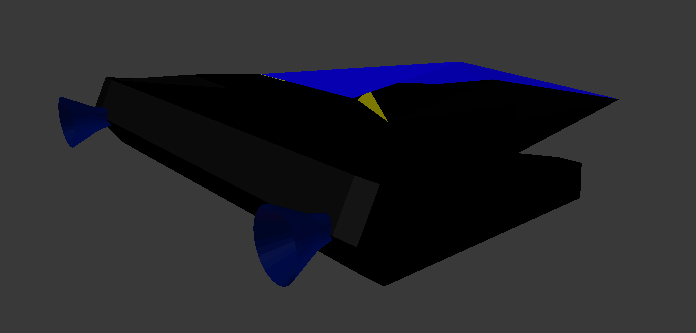
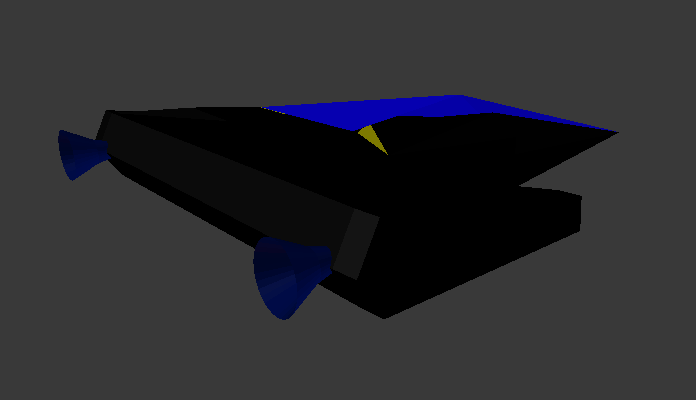
aspect ratio parameter

diff --git a/src/components/Carousel.js b/src/components/Carousel.js
@@ -14,15 +14,23 @@ export default class Carousel extends Component {
   static propTypes = {
     folder: PropTypes.string.isRequired,
     captions: PropTypes.arrayOf(PropTypes.string).isRequired,
+    aspectRatio: PropTypes.arrayOf(PropTypes.number),
+  };
+
+  static defaultProps = {
+    aspectRatio: [16, 9],
   };
 
   render() {
     return (
       <CarouselProvider
-        naturalSlideWidth={100}
-        naturalSlideHeight={60} //TODO: adaptive aspect ratio
+        naturalSlideWidth={this.props.aspectRatio[0]}
+        naturalSlideHeight={this.props.aspectRatio[1]} //TODO: adaptive aspect ratio
         totalSlides={this.props.captions.length}
-        infinite
+        infinite={this.props.captions.length > 1}
+        // isIntrinsicHeight
+        touchEnabled={this.props.captions.length > 1}
+        dragEnabled={this.props.captions.length > 1}
       >
         <div style={{ position: "relative" }}>
           <Slider style={{ borderRadius: "3vmin" }}>

diff --git a/src/components/blender/RPC.js b/src/components/blender/RPC.js
@@ -41,7 +41,13 @@ export default function RPC() {
                 Then I modified it slightly and played with the font and added a
                 more dramatic camera angle to make this icon:
               </p>
-              <Carousel folder="../../assets/5-rpc/icon" captions={[""]} />
+              <div style={{ width: "50%", margin: "0 auto" }}>
+                <Carousel
+                  folder="../../assets/5-rpc/icon"
+                  captions={[""]}
+                  aspectRatio={[1, 1]}
+                />
+              </div>
             </div>
           )}
         />

diff --git a/src/components/blender/Coke.js b/src/components/blender/Coke.js
@@ -20,7 +20,11 @@ export default function Coke() {
                 cylinder. This was my first endeavour with textures. This was
                 rendered in Blender Internal.
               </p>
-              <Carousel folder="../../assets/2-coke" captions={[""]} />
+              <Carousel
+                folder="../../assets/2-coke"
+                captions={[""]}
+                aspectRatio={[65, 57]}
+              />
             </div>
           )}
         />

diff --git a/src/components/blender/Fireship.js b/src/components/blender/Fireship.js
@@ -30,6 +30,7 @@ export default function Fireship() {
               <Carousel
                 folder="../../assets/1-fireship"
                 captions={["Main Render", "Front", "Back", "Window Open"]}
+                aspectRatio={[40, 24]}
               />
             </div>
           )}
